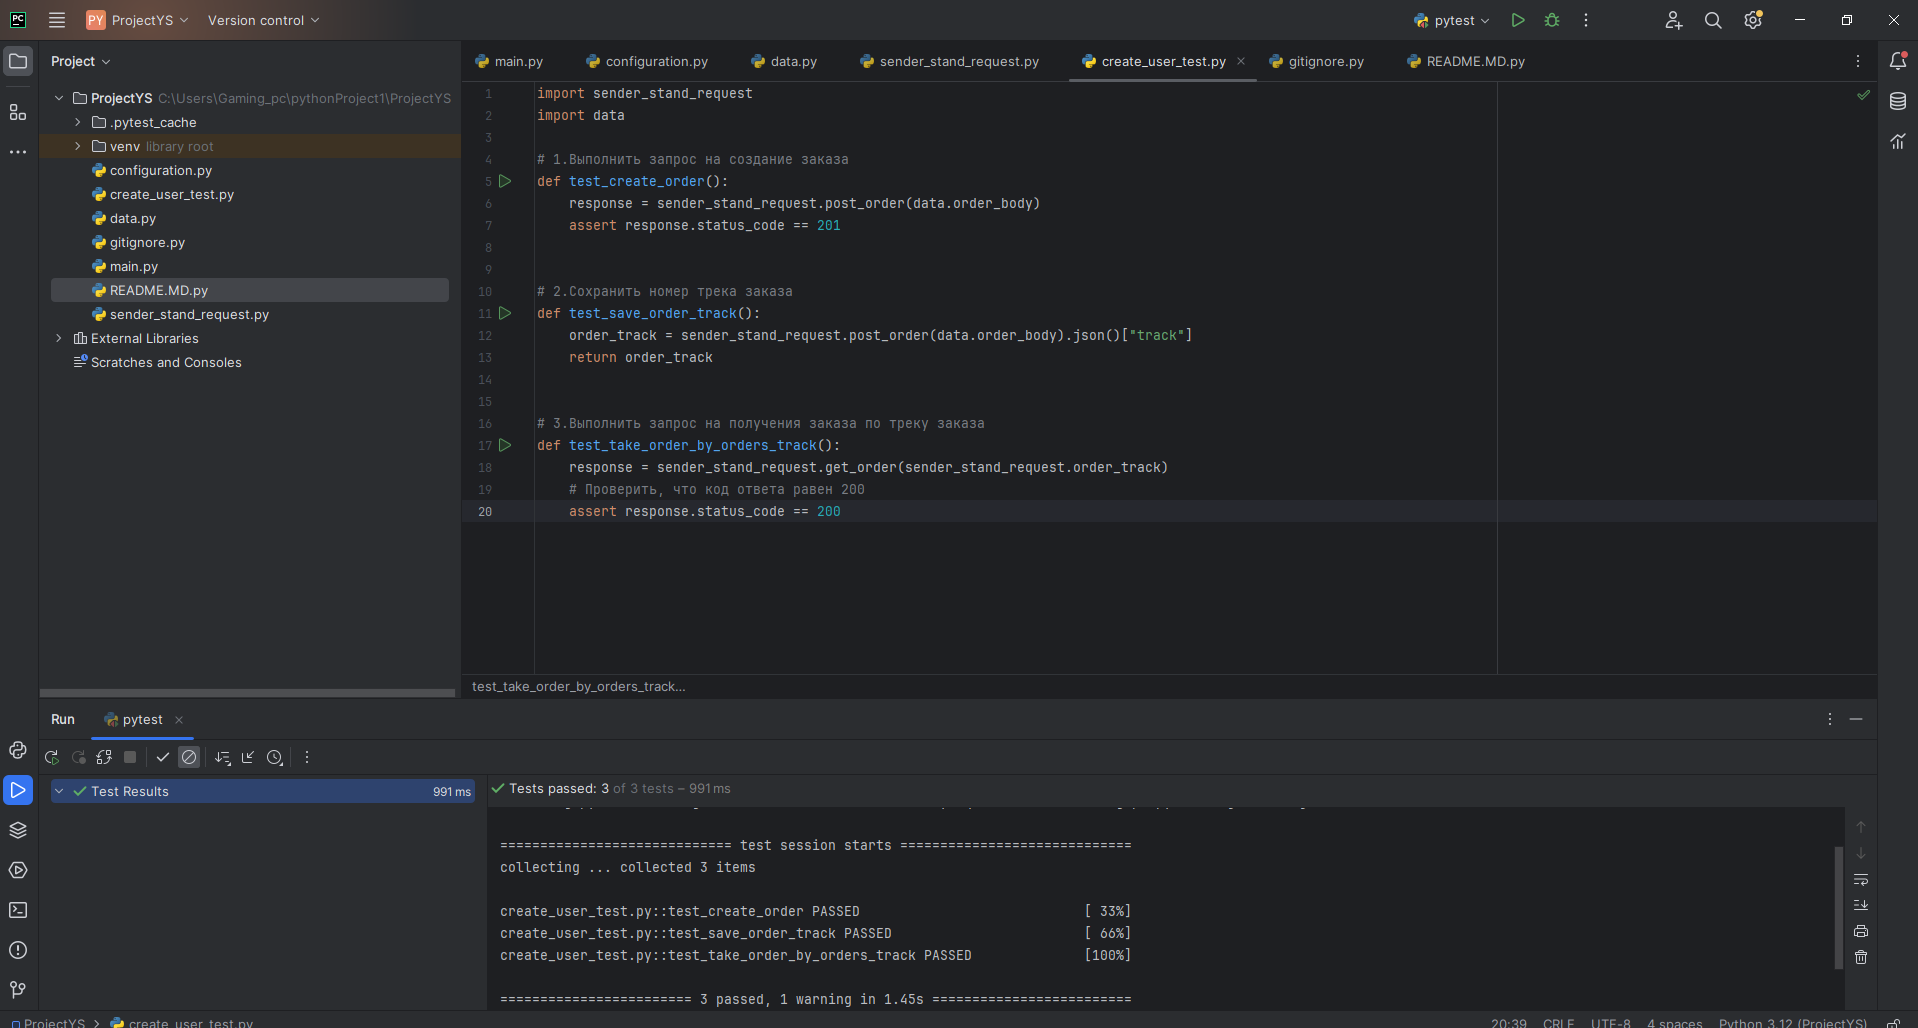
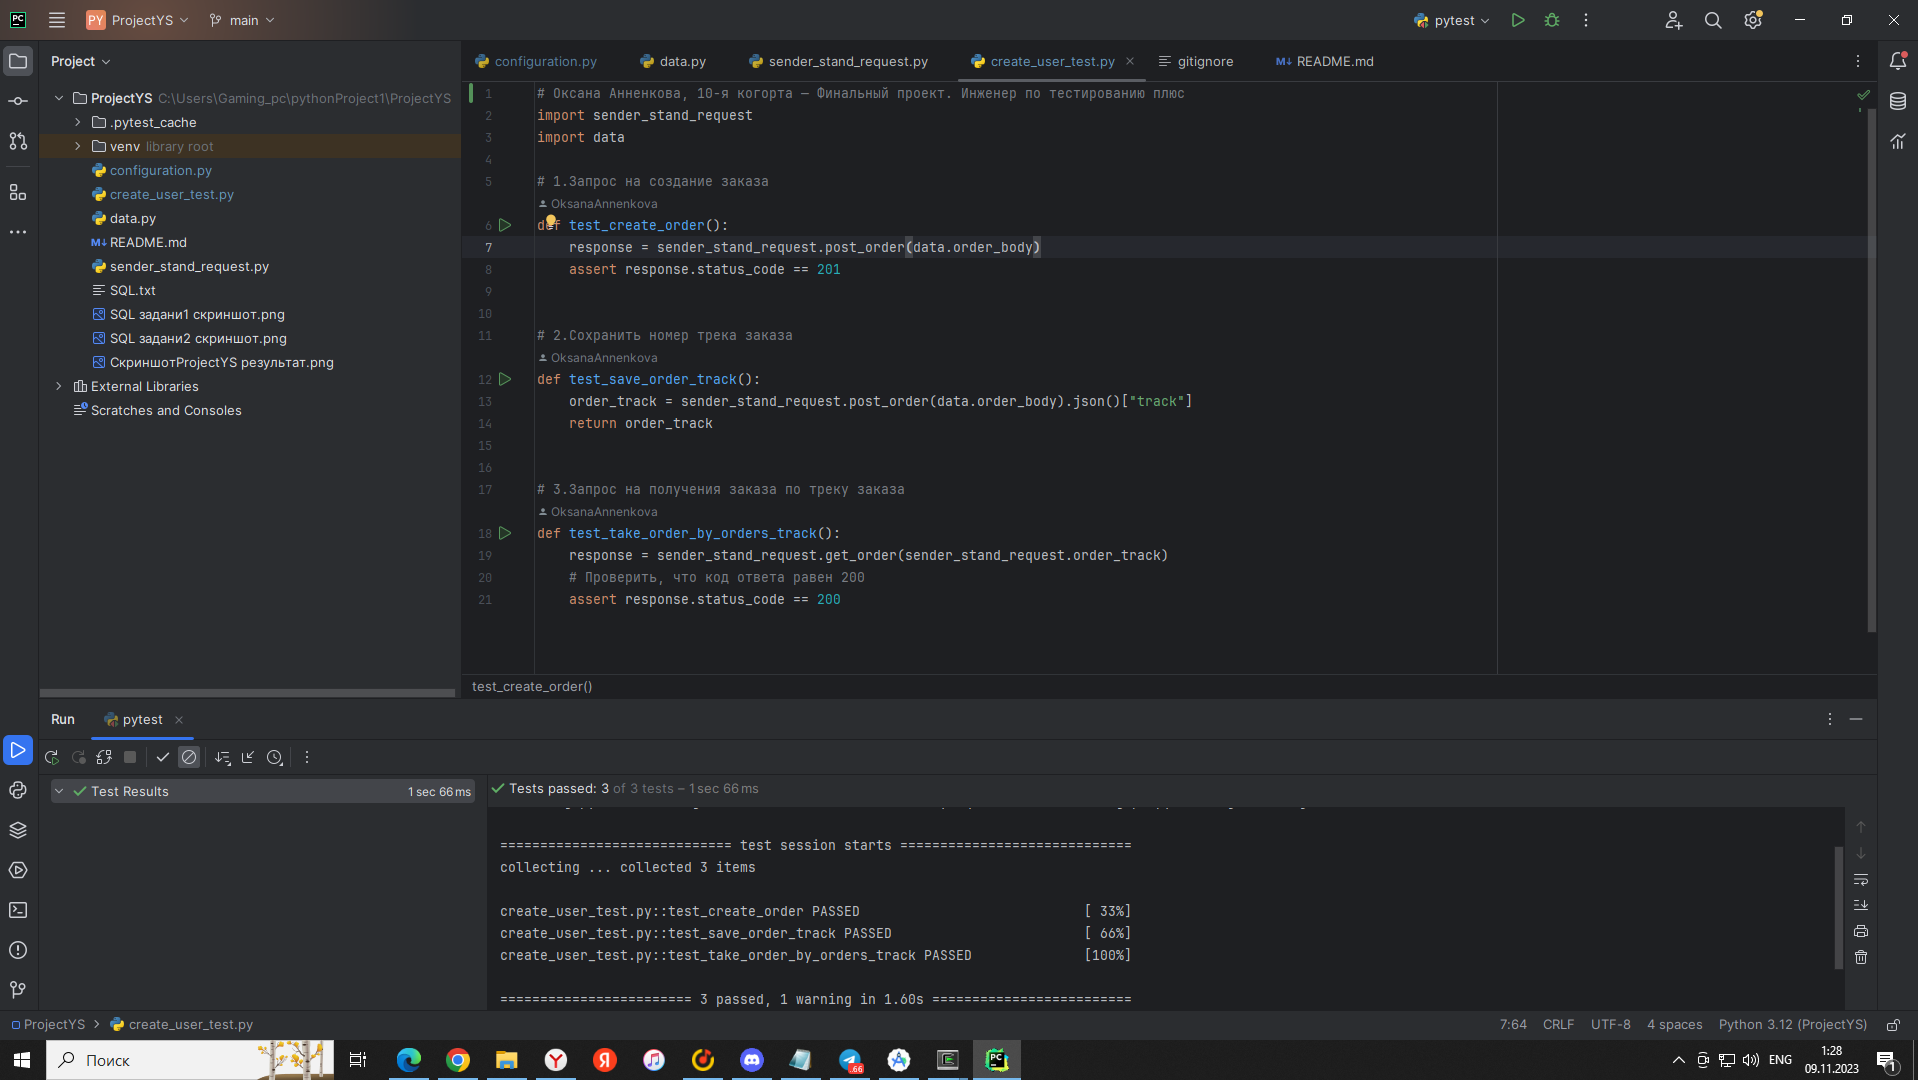
first commit

diff --git a/configuration.py b/configuration.py
@@ -1,3 +1,3 @@
-URL_SERVICE = "https://7924b9ad-e18f-43d0-9b93-a470d372e8b9.serverhub.praktikum-services.ru"
+URL_SERVICE = "https://146990b5-edb9-4d45-bb4d-a12b472115fb.serverhub.praktikum-services.ru"
 CREATE_ORDER_PATH = "/api/v1/orders/"
 TAKE_ORDER_BY_TRACK = "/api/v1/orders/track?t="

diff --git a/create_user_test.py b/create_user_test.py
@@ -1,3 +1,4 @@
+# Оксана Анненкова, 10-я когорта — Финальный проект. Инженер по тестированию плюс
 import sender_stand_request
 import data
 
